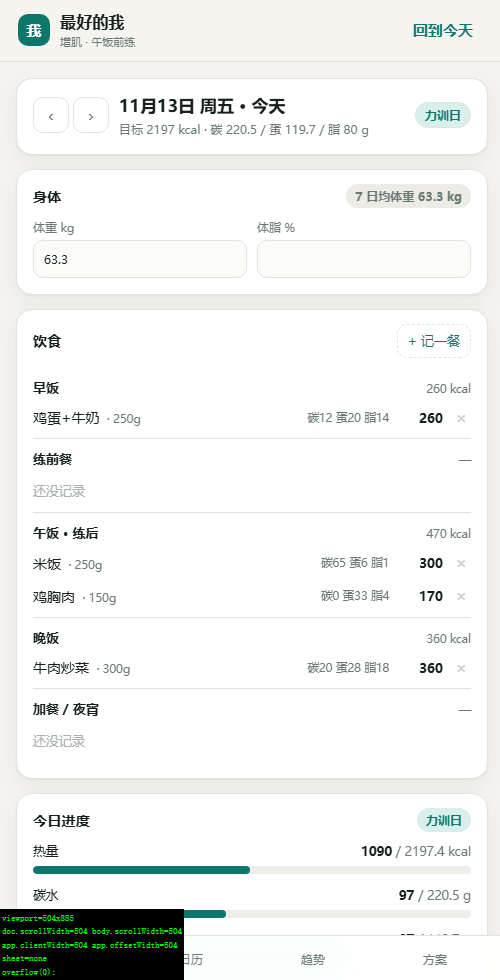
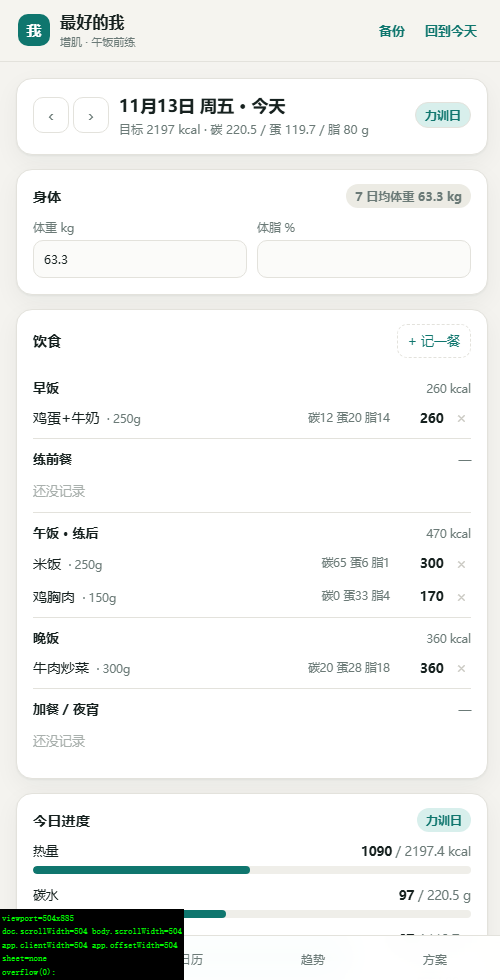
v0.4.1 顶栏加一键备份，方案页显示上次备份时间

diff --git a/app/ui.js b/app/ui.js
@@ -402,7 +402,7 @@
           '<button data-act="import">导入备份</button>' +
           '<button class="danger" data-act="reset">清空全部</button>' +
         '</div>' +
-        '<div class="note" style="margin-top:10px">数据存在本机。建议每周导出一次 JSON 备份到「文件」App，防止被系统清理。</div>' +
+        '<div class="note" style="margin-top:10px">数据存在本机：' + backupLabel() + '。建议每周点右上角「备份」导出一份 JSON 到「文件」App，防止被系统清理。</div>' +
       '</section>' +
     '</div>';
   }
@@ -569,6 +569,20 @@
   }
   function stamp() { return S.todayKey().replace(/-/g, ''); }
 
+  function backup() {
+    state.lastBackupAt = new Date().toISOString();
+    S.save(state);
+    download('最好的我-备份-' + stamp() + '.json', JSON.stringify(state, null, 2));
+    render();
+  }
+
+  function backupLabel() {
+    if (!state.lastBackupAt) return '还没备份过';
+    var days = Math.floor((Date.now() - new Date(state.lastBackupAt).getTime()) / 86400000);
+    if (days <= 0) return '今天已备份';
+    return days + ' 天前备份';
+  }
+
   function importFile() {
     var input = document.createElement('input');
     input.type = 'file';
@@ -620,7 +634,7 @@
       case 'cal-next': monthAnchor = new Date(monthAnchor.getFullYear(), monthAnchor.getMonth() + 1, 1); render(); break;
       case 'cal-day': cursor = el.dataset.date; view = 'today'; render(); break;
       case 'dir': state.plan.direction = el.dataset.dir; save(); break;
-      case 'export-json': download('最好的我-备份-' + stamp() + '.json', JSON.stringify(state, null, 2)); break;
+      case 'export-json': backup(); break;
       case 'export-csv': download('最好的我-' + stamp() + '.csv', '\ufeff' + S.toCsv(state), 'text/csv'); break;
       case 'import': importFile(); break;
       case 'reset':
@@ -651,6 +665,9 @@
       save();
     }
   });
+
+  var btnBackup = document.getElementById('btn-backup');
+  if (btnBackup) btnBackup.addEventListener('click', backup);
 
   document.getElementById('btn-today').addEventListener('click', function () {
     cursor = S.todayKey();

diff --git a/tools/render/probe.html b/tools/render/probe.html
@@ -9,7 +9,10 @@
 <body>
   <header class="topbar">
     <div class="brand"><span class="logo">我</span><div><h1>最好的我</h1><p id="brand-sub">记录</p></div></div>
-    <button class="ghost" id="btn-today">回到今天</button>
+    <div class="top-actions">
+      <button class="ghost" id="btn-backup">备份</button>
+      <button class="ghost" id="btn-today">回到今天</button>
+    </div>
   </header>
   <main id="app" class="app"></main>
   <nav class="tabbar">

diff --git a/app/index.html b/app/index.html
@@ -22,7 +22,10 @@
         <p id="brand-sub">记录 · 代谢 · 计划</p>
       </div>
     </div>
-    <button class="ghost" id="btn-today">回到今天</button>
+    <div class="top-actions">
+      <button class="ghost" id="btn-backup">备份</button>
+      <button class="ghost" id="btn-today">回到今天</button>
+    </div>
   </header>
 
   <main id="app" class="app"></main>

diff --git a/app/styles.css b/app/styles.css
@@ -47,6 +47,8 @@ body {
 }
 .brand h1 { margin: 0; font-size: 16px; font-weight: 650; letter-spacing: .2px; }
 .brand p { margin: 0; font-size: 11px; color: var(--muted); }
+.top-actions { display: flex; gap: 2px; flex: none; }
+.top-actions button { padding: 6px 8px; font-size: 13px; }
 
 /* ---------- layout ---------- */
 .app {
